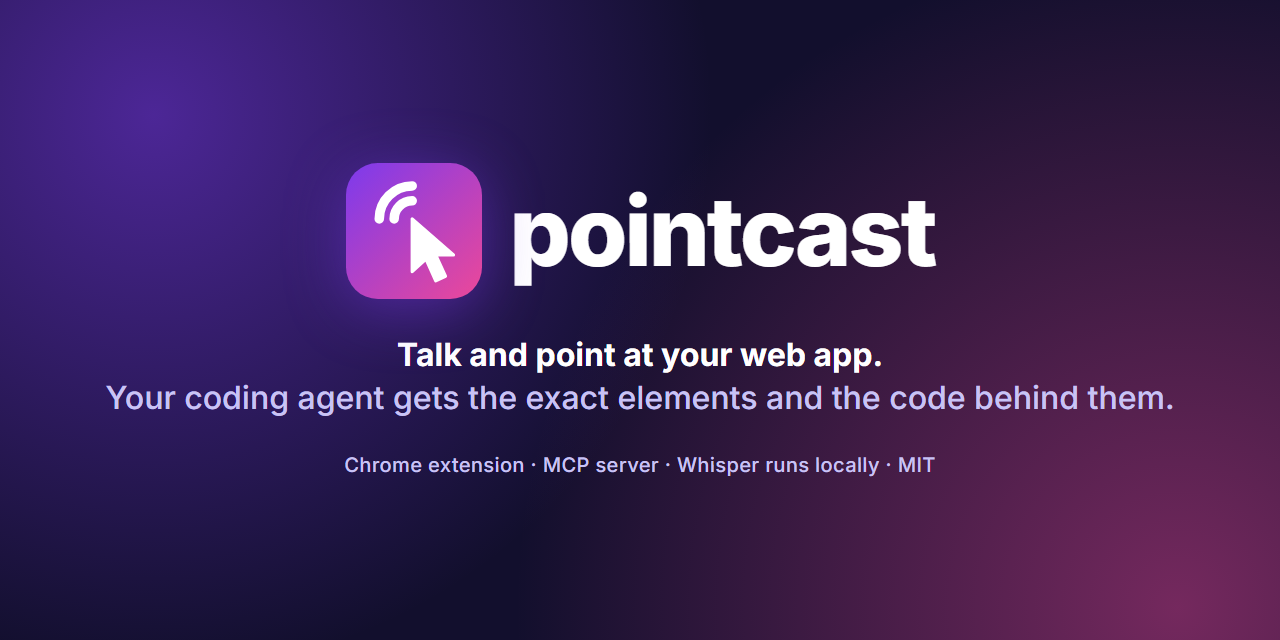
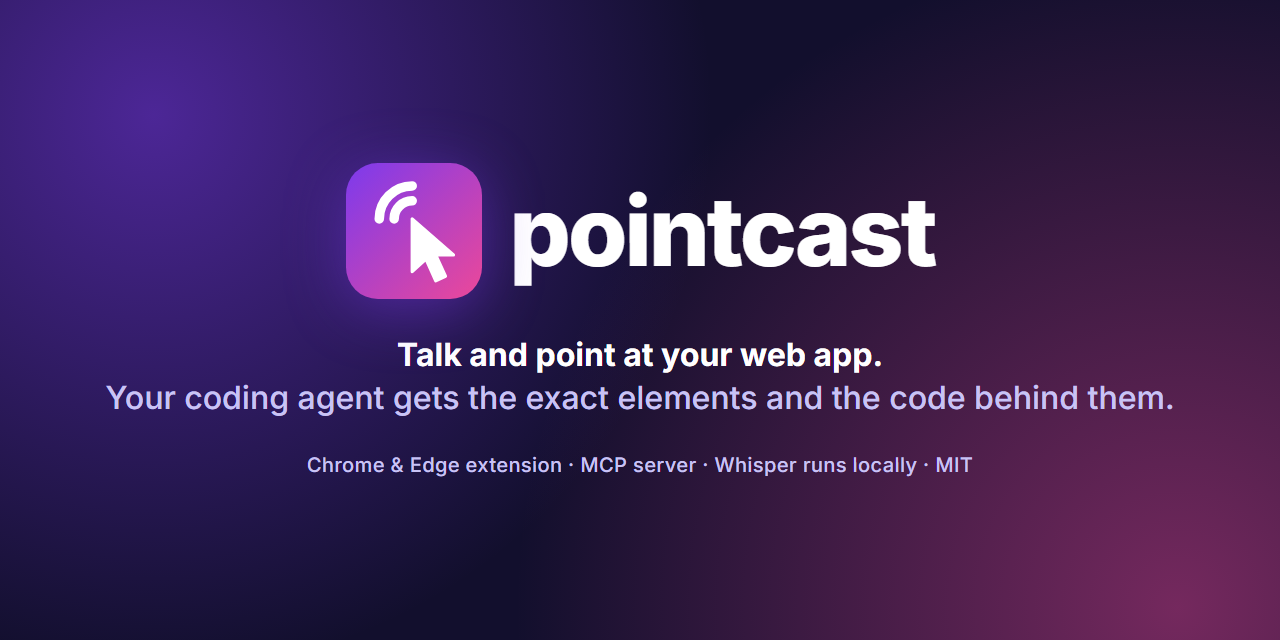
docs(launch): 0.3 launch drafts, listing texts and small fixes
- Show HN, Reddit (4 subs), LinkedIn (es/en), social thread, article
  outline and a launch plan; listings.md with the text and steps for
  each directory; an MCP Registry server.json draft.
- README snippets pin pointcast@0.3.0; the GIF's alt text says 18 s;
  the social preview says Chrome & Edge; pointcast-django ships its
  LICENSE.

Changed region(s): [[0.2188, 0.6875, 0.75, 0.75]]

diff --git a/docs/launch/store/src/social-preview.html b/docs/launch/store/src/social-preview.html
@@ -15,6 +15,6 @@
 <body>
   <div class="brand"><img src="../../../../dev/scripts/icon/pointcast.svg" width="136" height="136" alt=""><span class="name">pointcast</span></div>
   <div class="tagline"><b>Talk and point at your web app.</b><br>Your coding agent gets the exact elements and the code behind them.</div>
-  <div class="foot">Chrome extension · MCP server · Whisper runs locally · MIT</div>
+  <div class="foot">Chrome &amp; Edge extension · MCP server · Whisper runs locally · MIT</div>
 </body>
 </html>

diff --git a/README.md b/README.md
@@ -1,5 +1,5 @@
 <p align="center">
-  <a href="docs/launch/video/out/pointcast-demo.mp4"><img src="docs/launch/video/out/pointcast-demo.gif" alt="Pointcast in 17 seconds: Alt+click two elements while talking, press Stop, and the spoken requests become a spec whose code locations lead to the exact lines in the source" width="800"></a>
+  <a href="docs/launch/video/out/pointcast-demo.mp4"><img src="docs/launch/video/out/pointcast-demo.gif" alt="Pointcast in 18 seconds: Alt+click two elements while talking, press Stop, and the spoken requests become a spec whose code locations lead to the exact lines in the source" width="800"></a>
 </p>
 
 # Pointcast
@@ -31,7 +31,7 @@ codex plugin marketplace add Hugelidus/pointcast && codex plugin add pointcast@p
 # Gemini CLI, then /pointcast in a folder you trust
 gemini extensions install https://github.com/Hugelidus/pointcast
 # Cursor, Windsurf or any MCP client: run this MCP server (config: packages/cli/README.md#mcp-server)
-npx -y pointcast@0.2 mcp
+npx -y pointcast@0.3.0 mcp
 ```
 
 Any other agent: paste the spec from the clipboard. (In Windows PowerShell 5.1, run each `&&` half on its own line.)
@@ -45,7 +45,7 @@ Download the newest `pointcast-<version>-chrome.zip` from [Releases](https://git
 
 **Updating an unpacked 0.1.x?** Remove it and load 0.2 as a new extension, once. From 0.2 on, every build has the same extension id (the Chrome Web Store item's), so the id changes this one time: allow the microphone again, and the speech model downloads once more.
 
-**Where recordings go.** While your agent's `pointcast` MCP server runs (the plugins above, or `npx -y pointcast@0.2 mcp`), recordings go straight to it, with no downloads. Without it, Chrome's downloads save them to `Downloads/pointcast/`; then turn off *Ask where to save each file before downloading* (`chrome://settings/downloads`), or Chrome asks for every file and the sessions miss the folder where the plugins, the MCP server and the CLI look. The popup tells you when that happened.
+**Where recordings go.** While your agent's `pointcast` MCP server runs (the plugins above, or `npx -y pointcast@0.3.0 mcp`), recordings go straight to it, with no downloads. Without it, Chrome's downloads save them to `Downloads/pointcast/`; then turn off *Ask where to save each file before downloading* (`chrome://settings/downloads`), or Chrome asks for every file and the sessions miss the folder where the plugins, the MCP server and the CLI look. The popup tells you when that happened.
 
 **Other sites.** Pointcast runs on `localhost`, `127.0.0.1`, `[::1]`, `*.localhost` and `*.test` out of the box. For a staging server or a preview deployment, open the popup there and press **Enable on `<host>`**: Chrome asks for access to that host only.
 
